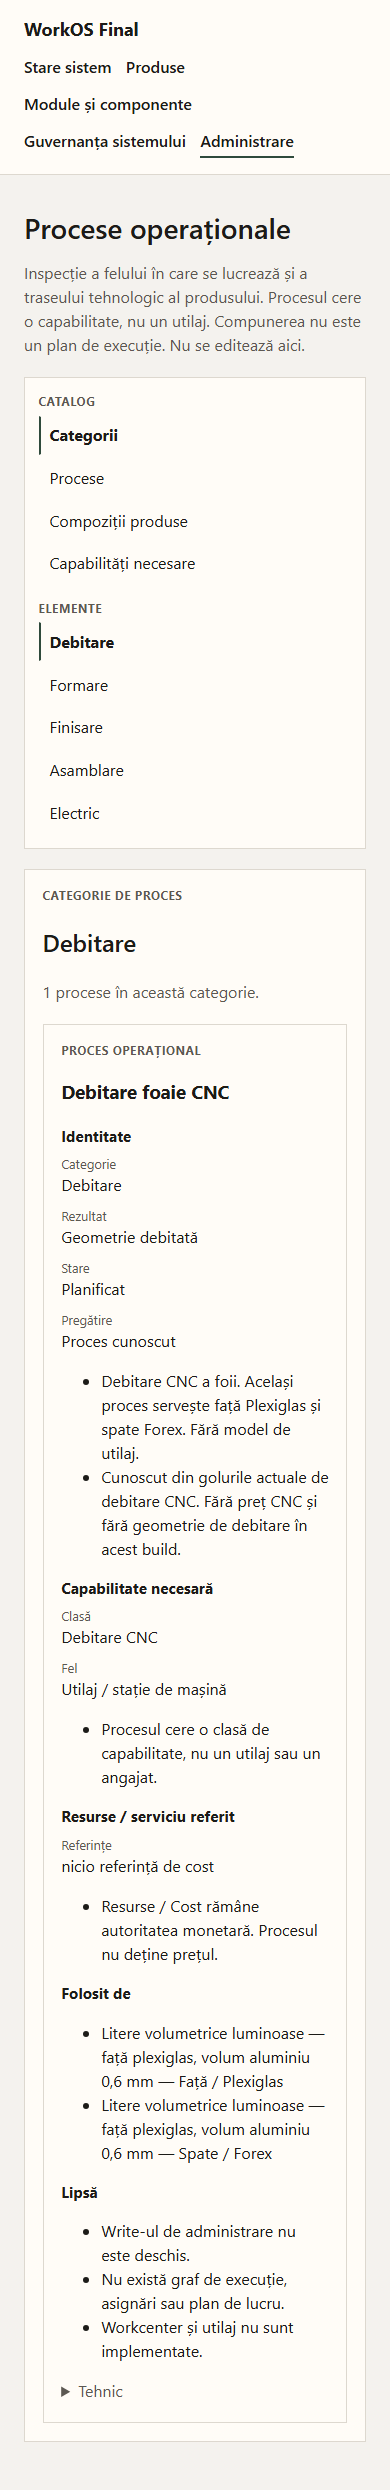
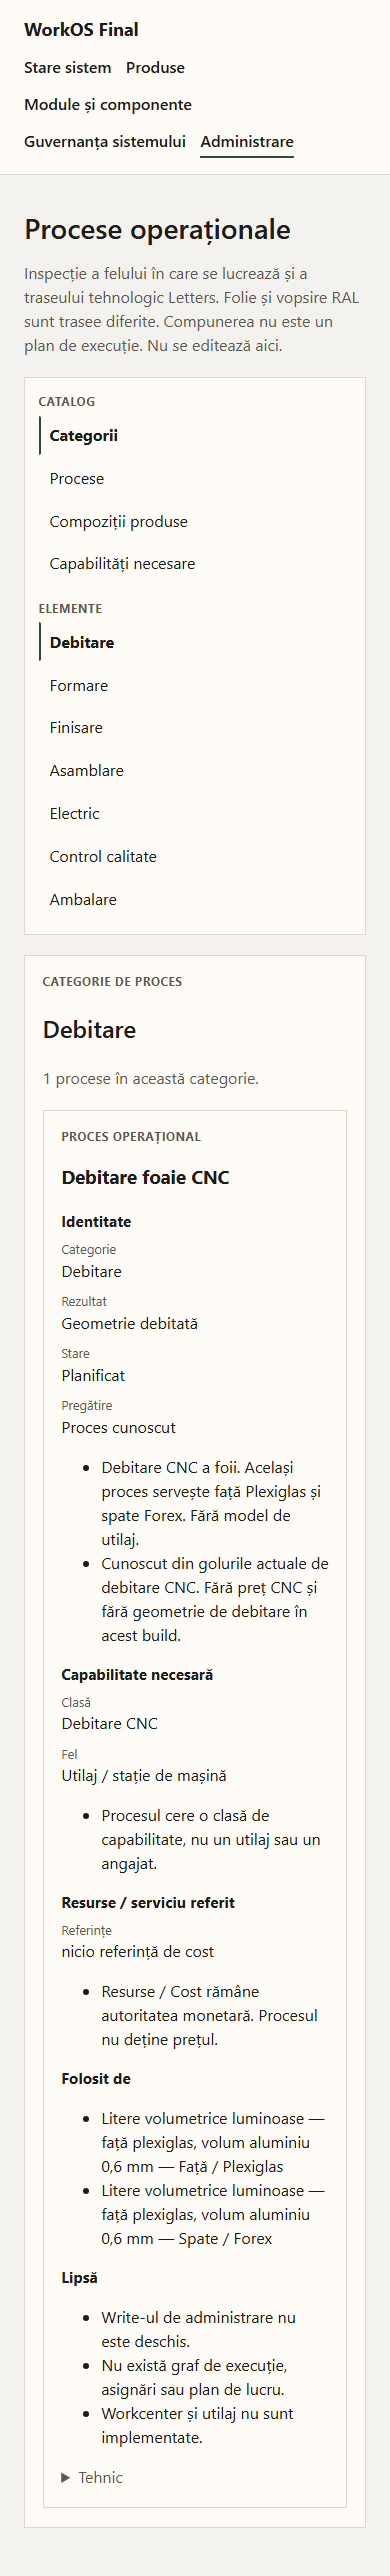
docs: record Letters critical process completion
Canon now treats RAL, closure, wiring, tests, and packing as composed processes, still without Execution or machines.

Changed region(s): [[0.0615, 0.0, 0.9231, 0.9896], [0.1538, 0.9586, 0.1846, 0.9896]]

diff --git a/docs/architecture/OPERATIONAL_PROCESSES_CANON.md b/docs/architecture/OPERATIONAL_PROCESSES_CANON.md
@@ -76,7 +76,11 @@ Node identity is `scope:processId` (example: `FACE:CUT_SHEET_CNC` and `BACK:CUT_
 
 Dependencies are explicit edges. A derived topological order may be shown for readability. Global `sequence: 1,2,3` is not authority.
 
-`APPLY_SURFACE_FINISH` means vinyl/folie only. Painted volume is not this process.
+`APPLY_SURFACE_FINISH` means vinyl/folie only. Painted volume uses `PAINT_RAL` after body closure, not before forming.
+
+`CLOSE_LETTER_BODY` is a product-level BODY node: removable mechanical back fastening after internal electrical work.
+
+Final inspection and packing are PRODUCT-scope nodes.
 
 ## Resource / cost boundary
 
@@ -101,10 +105,24 @@ They are linked, not merged.
 | `APPLY_SURFACE_FINISH` | FINISHING | VINYL_APPLICATION | FACE, VOLUME | PLANNED |
 | `BOND_LETTER_BODY` | ASSEMBLY | MANUAL_ASSEMBLY | FACE, VOLUME | PLANNED |
 | `PLACE_LED_MODULES` | ELECTRICAL | ELECTRICAL_ASSEMBLY | LIGHTING | BLOCKED |
+| `WIRE_LIGHTING` | ELECTRICAL | ELECTRICAL_ASSEMBLY | LIGHTING | PLANNED |
+| `INSTALL_OR_CONNECT_PSU` | ELECTRICAL | ELECTRICAL_ASSEMBLY | LIGHTING | BLOCKED |
+| `TEST_LIGHTING_IGNITION` | ELECTRICAL | ELECTRICAL_ASSEMBLY | LIGHTING | PLANNED |
+| `PAINT_RAL` | FINISHING | PAINTING | VOLUME | PLANNED |
+| `CLOSE_LETTER_BODY` | ASSEMBLY | MANUAL_ASSEMBLY | BACK | PLANNED |
+| `TEST_ILLUMINATION_UNIFORMITY` | QUALITY_CONTROL | QUALITY_CONTROL | LIGHTING | PLANNED |
+| `INSPECT_FINISHED_LETTER` | QUALITY_CONTROL | QUALITY_CONTROL | product | PLANNED |
+| `PACK_PRODUCT` | PACKING | PACKAGING | product | PLANNED |
 
-QC, packing, closure, electrical wiring, PSU installation, and paint remain missing-process gaps, not silent omissions.
+Letters overall composition remains BLOCKED because lighting calculation / PSU reserve is unresolved.
+Technological process route is modeled. Cost remains PARTIAL. Execution remains absent.
 
-Letters composition completeness is currently BLOCKED (lighting required but technically blocked; CNC/finish/bond incomplete).
+Readiness is reported separately:
+
+- TECHNOLOGICAL_PROCESS_COMPLETENESS
+- LIGHTING_CALCULATION_READINESS
+- COST_COMPLETENESS
+- EXECUTION_READINESS
 
 ## Persistence and administration
 

diff --git a/docs/worklog/WORKOS_FINAL_LETTERS_CRITICAL_PROCESS_COMPLETION_V1.md b/docs/worklog/WORKOS_FINAL_LETTERS_CRITICAL_PROCESS_COMPLETION_V1.md
@@ -1,0 +1,49 @@
+# WORKOS_FINAL_LETTERS_CRITICAL_PROCESS_COMPLETION_V1
+
+## Baseline
+
+- Repo: `office952/workos-final`
+- Branch: `main`
+- Expected baseline: `fd787d129f38ae5251601575d4f3d716b87c9143`
+
+## Recovered owner truth
+
+Used only material evidence:
+
+| Source | Decision | Consequence |
+|---|---|---|
+| Legacy finish model `03_FINISH_MODEL.md` | Vinyl on volume before forming; RAL after assembly; face protection when painting | `PAINT_RAL` after `CLOSE_LETTER_BODY`; vinyl-before-forming kept |
+| Legacy operation catalog | One paint job = mask / paint / dry / unmask; LED then assembly/close; pack last | One `PAINT_RAL` process, not four micro-steps |
+| Owner Letters dossier (workshop) | Removable screw back; cyano face-volume; LED then wire then PSU then test; ignition ≠ uniformity | `CLOSE_LETTER_BODY`, wiring/PSU/tests split |
+| Current WorkOS Final canon | FACE vinyl after cut, not after assembly | Kept; legacy face-vinyl-after-assembly not restored |
+
+`office952/workos-vscode` was read-only via GitHub. No architecture copied.
+
+## Granularity
+
+`PAINT_RAL` is one paint-booth process. Mask/dry/unmask stay in the description because they share one capability and one workshop job.
+
+LED adhesive stays in `PLACE_LED_MODULES` description. Bond adhesive stays in `BOND_LETTER_BODY` description.
+
+## Completeness
+
+- Overall composition: **BLOCKED** (lighting / PSU)
+- TECHNOLOGICAL_PROCESS_COMPLETENESS: **PARTIAL**
+- LIGHTING_CALCULATION_READINESS: **BLOCKED**
+- COST_COMPLETENESS: **PARTIAL** (EIC 320.50 EUR)
+- EXECUTION_READINESS: **NOT_IMPLEMENTED**
+
+## Tests
+
+- `pnpm lint` PASS
+- `pnpm typecheck` PASS
+- `pnpm test` PASS (domain 98, api 18, web 17)
+- `pnpm build` PASS
+- `pnpm e2e` PASS (7)
+- `git diff --check` PASS
+
+Canonical product EIC remains 320.50 EUR PARTIAL.
+
+## UI opinion
+
+Owner can see vinyl ≠ RAL immediately. Stages (Față / Volum / Iluminare / Corp / Produs) keep a longer route readable without a graph editor. Lighting stays honestly blocked. ACM will still need collapse, but grouping by etapă is enough for Letters V1.

diff --git a/AGENTS.md b/AGENTS.md
@@ -44,4 +44,4 @@ Do not implement Commercial, Quote, ACM, Analyzer runtime, a second catalog prod
 
 ## Bootstrap proof
 
-The current app has a platform shell, a real health check, a product catalog, Product System inspection on `/components`, persisted display-label administration on `/admin`, Resources / Cost inspection under `/admin/resources`, Operational Processes inspection under `/admin/processes` including Letters process composition, owner-facing governance, one canonical front-lit plexi/aluminium letters product, component-owned FACE / VOLUME / BACK calculations with partial internal EIC, a reusable material-family/specification catalog, a typed operational-process catalog with shop-floor capability classes, a deterministic Letters process-composition compiler, canonical component technical settings, and lighting left unavailable because PSU reserve is still owner-undecided.
+The current app has a platform shell, a real health check, a product catalog, Product System inspection on `/components`, persisted display-label administration on `/admin`, Resources / Cost inspection under `/admin/resources`, Operational Processes inspection under `/admin/processes` including Letters process composition, owner-facing governance, one canonical front-lit plexi/aluminium letters product, component-owned FACE / VOLUME / BACK calculations with partial internal EIC, a reusable material-family/specification catalog, a typed operational-process catalog with shop-floor capability classes, a deterministic Letters process-composition compiler with vinyl, RAL, electrical, closure, QC and packing nodes, canonical component technical settings, and lighting left unavailable because PSU reserve is still owner-undecided.

diff --git a/README.md b/README.md
@@ -6,7 +6,7 @@ This is not a cleanup of previous WorkOS code and not a fork of workflow-adv.
 
 ## Current status
 
-Product catalog plus first canonical LETTERS product, with FACE / VOLUME / BACK / LIGHTING as roles, reusable constructive types, Product System inspection on `/components`, persisted display-label administration on `/admin`, Resources / Cost inspection on `/admin/resources`, Operational Processes inspection on `/admin/processes` including Letters process composition, owner-facing governance, canonical component technical settings, and lighting left incomplete because PSU reserve is still owner-undecided.
+Product catalog plus first canonical LETTERS product, with FACE / VOLUME / BACK / LIGHTING as roles, reusable constructive types, Product System inspection on `/components`, persisted display-label administration on `/admin`, Resources / Cost inspection on `/admin/resources`, Operational Processes inspection on `/admin/processes` including Letters vinyl, RAL, electrical, closure, QC and packing composition, owner-facing governance, canonical component technical settings, and lighting left incomplete because PSU reserve is still owner-undecided.
 
 The app has a platform shell, a real health check, a hierarchical product catalog, and a schema-driven configuration flow for the first canonical product. Product System display labels persist in local SQLite after bootstrap. Resources remain a typed catalog. Technical settings, lifecycle, resource cost, and commercial price are not writable yet.
 

diff --git a/docs/roadmap/WORKOS_FINAL_ROADMAP_V1.md b/docs/roadmap/WORKOS_FINAL_ROADMAP_V1.md
@@ -73,6 +73,7 @@ Cross-system ownership: `docs/architecture/WORKOS_FINAL_SYSTEM_DOMAIN_AND_ADMINI
 | Resources / Cost catalog foundation (identity, family/spec, service, cost evidence) | DONE / FOUNDATION |
 | Operational Processes foundation (process + capability class) | DONE / FOUNDATION |
 | Letters process composition (requirements, conditions, dependencies) | DONE / FOUNDATION |
+| Letters critical technological process completion | DONE / FOUNDATION |
 | Resources admin write / process admin write | NOT_IMPLEMENTED |
 | Lighting calculation | V1 REQUIRED after PSU owner decision |
 | People, Machines, Pontaj, Execution | LATER |

diff --git a/docs/README.md b/docs/README.md
@@ -24,6 +24,7 @@ These describe the live system. If they disagree with runtime, the runtime wins 
 - `docs/worklog/WORKOS_FINAL_RESOURCES_AND_COST_CATALOG_FOUNDATION_V1.md` — Resources / Cost catalog foundation
 - `docs/worklog/WORKOS_FINAL_OPERATIONAL_PROCESSES_FOUNDATION_V1.md` — Operational Processes foundation
 - `docs/worklog/WORKOS_FINAL_LETTERS_PROCESS_COMPOSITION_V1.md` — Letters process composition
+- `docs/worklog/WORKOS_FINAL_LETTERS_CRITICAL_PROCESS_COMPLETION_V1.md` — Letters critical process completion
 
 ## Historical evidence
 

diff --git a/docs/architecture/WORKOS_FINAL_SYSTEM_DOMAIN_AND_ADMINISTRATION_MAP.md b/docs/architecture/WORKOS_FINAL_SYSTEM_DOMAIN_AND_ADMINISTRATION_MAP.md
@@ -76,7 +76,7 @@ WorkOS Final
 │   ├── Resource identity
 │   ├── Cost evidence / rates
 │   └── Labor / service recipes             PLANNED
-├── Operational Processes                   FOUNDATION_ONLY (typed catalog + Letters composition)
+├── Operational Processes                   FOUNDATION_ONLY (typed catalog + Letters technological route)
 │   ├── Process definition
 │   ├── Production capability class
 │   ├── Component process requirements
